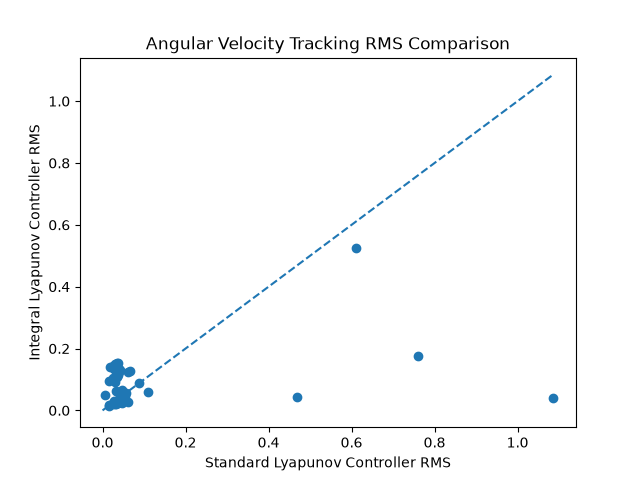
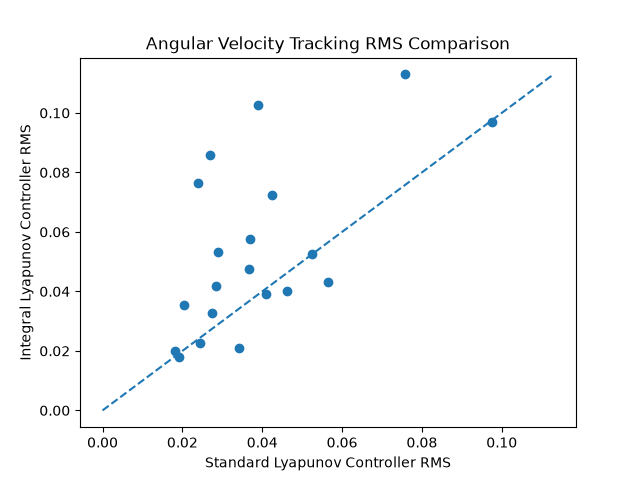
update

diff --git a/experiments/lyapunov_controller/monte_carlo_performance_comparison/monte_carlo_simulation.py b/experiments/lyapunov_controller/monte_carlo_performance_comparison/monte_carlo_simulation.py
@@ -64,8 +64,8 @@ state_provider = MRPStateProvider()
 
 def get_random_gains():
 
-    K = np.random.uniform(0.0, 50.0)
-    KI = 10 ** np.random.uniform(-3.0, 1.0)
+    K = np.random.uniform(10.0, 50.0)
+    KI = 10 ** np.random.uniform(-2.0, 0.0)
     P = make_spd_matrix(3)
 
     return K, KI, P
@@ -147,7 +147,7 @@ def simulate_integral_controller(K, P, KI):
 
 
 # monte carlo simulation
-num_simulations = 50
+num_simulations = 20
 steady_state_start = 250.0
 standard_sigma_rms_history = np.zeros(num_simulations)
 standard_omega_rms_history = np.zeros(num_simulations)
